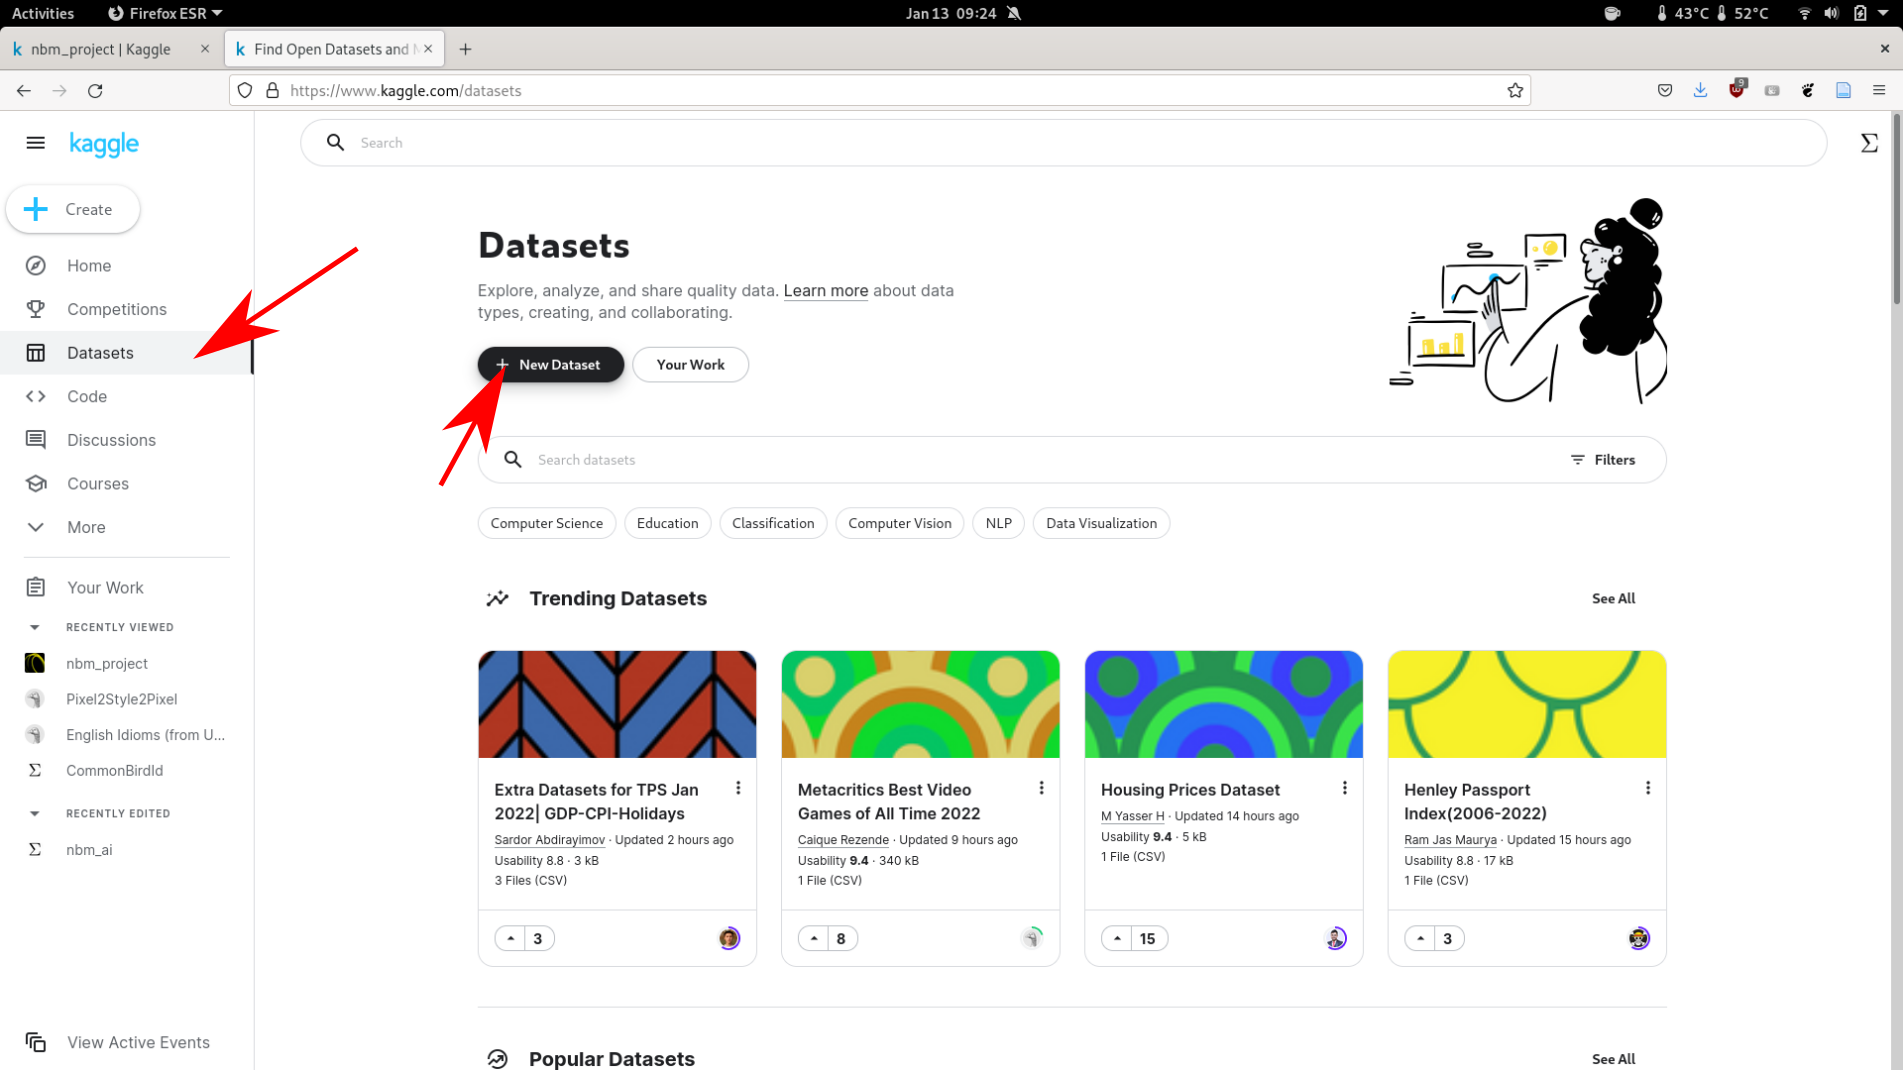
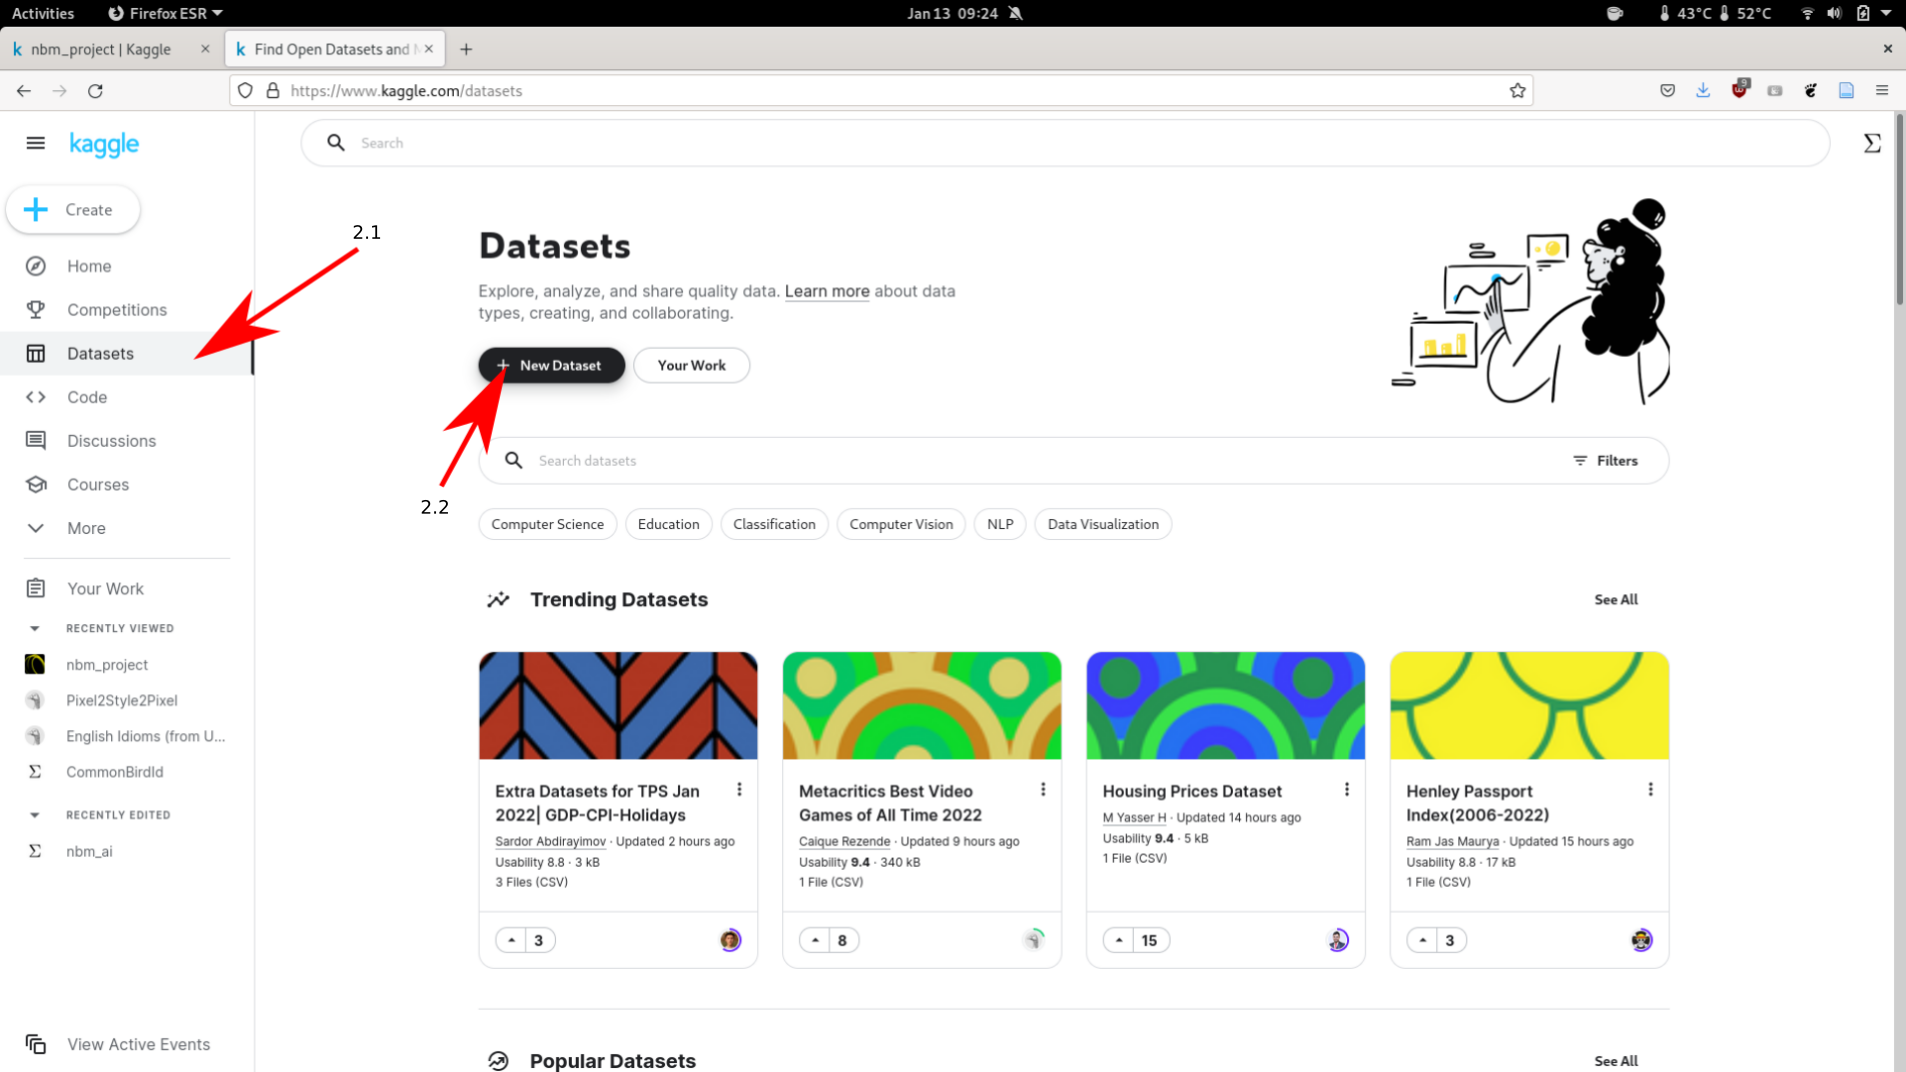
Added numbers

diff --git a/docs/use_ia_on_kaggle/how_to_use_nbm_ai_on_Kaggle.md b/docs/use_ia_on_kaggle/how_to_use_nbm_ai_on_Kaggle.md
@@ -12,9 +12,9 @@ Bien noter vos identifiants et mot de passe.
 
 Télécharger l'archive ia\_data.zip disponible à l'adressse []().
 
-Dans le menu à gauche, clicker sur dataset, puis sur le bouton ‘New dataset’.
+Dans le menu à gauche, clicker sur dataset (2.1), puis sur le bouton ‘New dataset’ (2.2).
 Entrer le titre ‘nbm_project’, et uploader l’archive ia_data.zip.
-Patienter jusqu’à la fin du téléchargement de l’archive, puis clicker sur ‘create’.
+Patienter jusqu’à la fin du téléchargement de l’archive, puis clicker sur ‘create’ (2.3).
 Enfin, clicker sur ‘Go to dataset’.
 
 ![](./002_create_new_dataset_button.png)
@@ -23,7 +23,7 @@ Enfin, clicker sur ‘Go to dataset’.
 
 ## 3. Créer un notebook et charger le modèle
 
-Dans l'onglet nbm_project nouvellement créé, clicker sur 'New Notebook'.
+Dans l'onglet nbm_project nouvellement créé, clicker sur 'New Notebook' (3.1).
 
 ![](./004_create_new_notebook.png)
 
@@ -50,9 +50,9 @@ model_path = '/kaggle/input/nbm-project/ia_data/ia_data'
 bird_call_detection = load_model(model_path, post_nms_topN_eval=50, device='cuda')
 ```
 
-Dans le menu à droite, clicker sur le menu déroulant 'Accelerator' et activer le GPU.
+Dans le menu à droite, clicker sur le menu déroulant 'Accelerator' et activer le GPU (3.2).
 
-Executer les deux premières cellules de code afin de charger le modèle.
+Executer les deux premières cellules de code afin de charger le modèle (3.3).
 
 ![](./005_run_first_part_code_and_activate_gpu.png)
 
@@ -143,6 +143,6 @@ Modifier le nom du fichier à traiter dans la dernière cellule du NoteBook et c
 
 Télécharger les sorties du modèle dans l'arborescence, sur la droite.
 
-Le fichier 'audacity_labels.txt', peut être ouvert avec audacity.
+![](./007_get_output_labels_audacity.png)
 
-![](./007_get_output_results.png)
+Le fichier 'audacity_labels.txt', peut être ouvert avec audacity.
